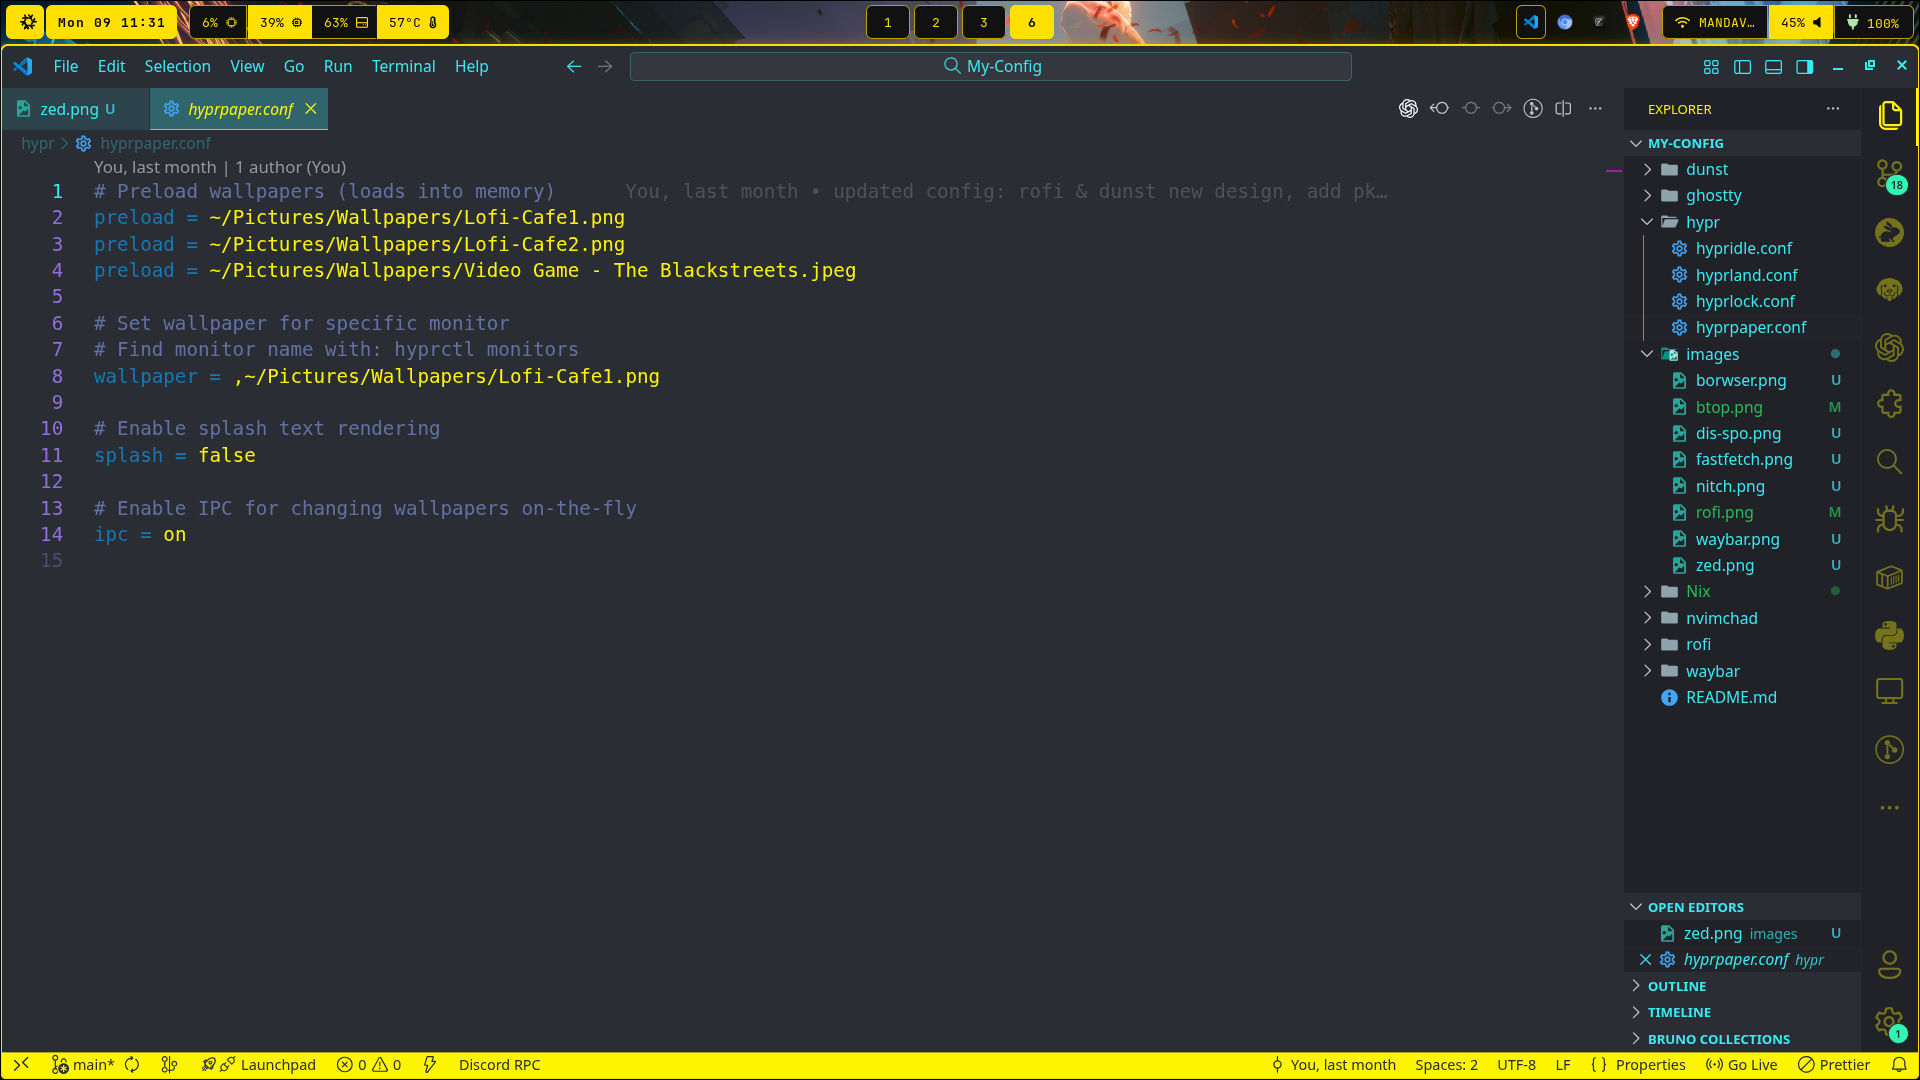
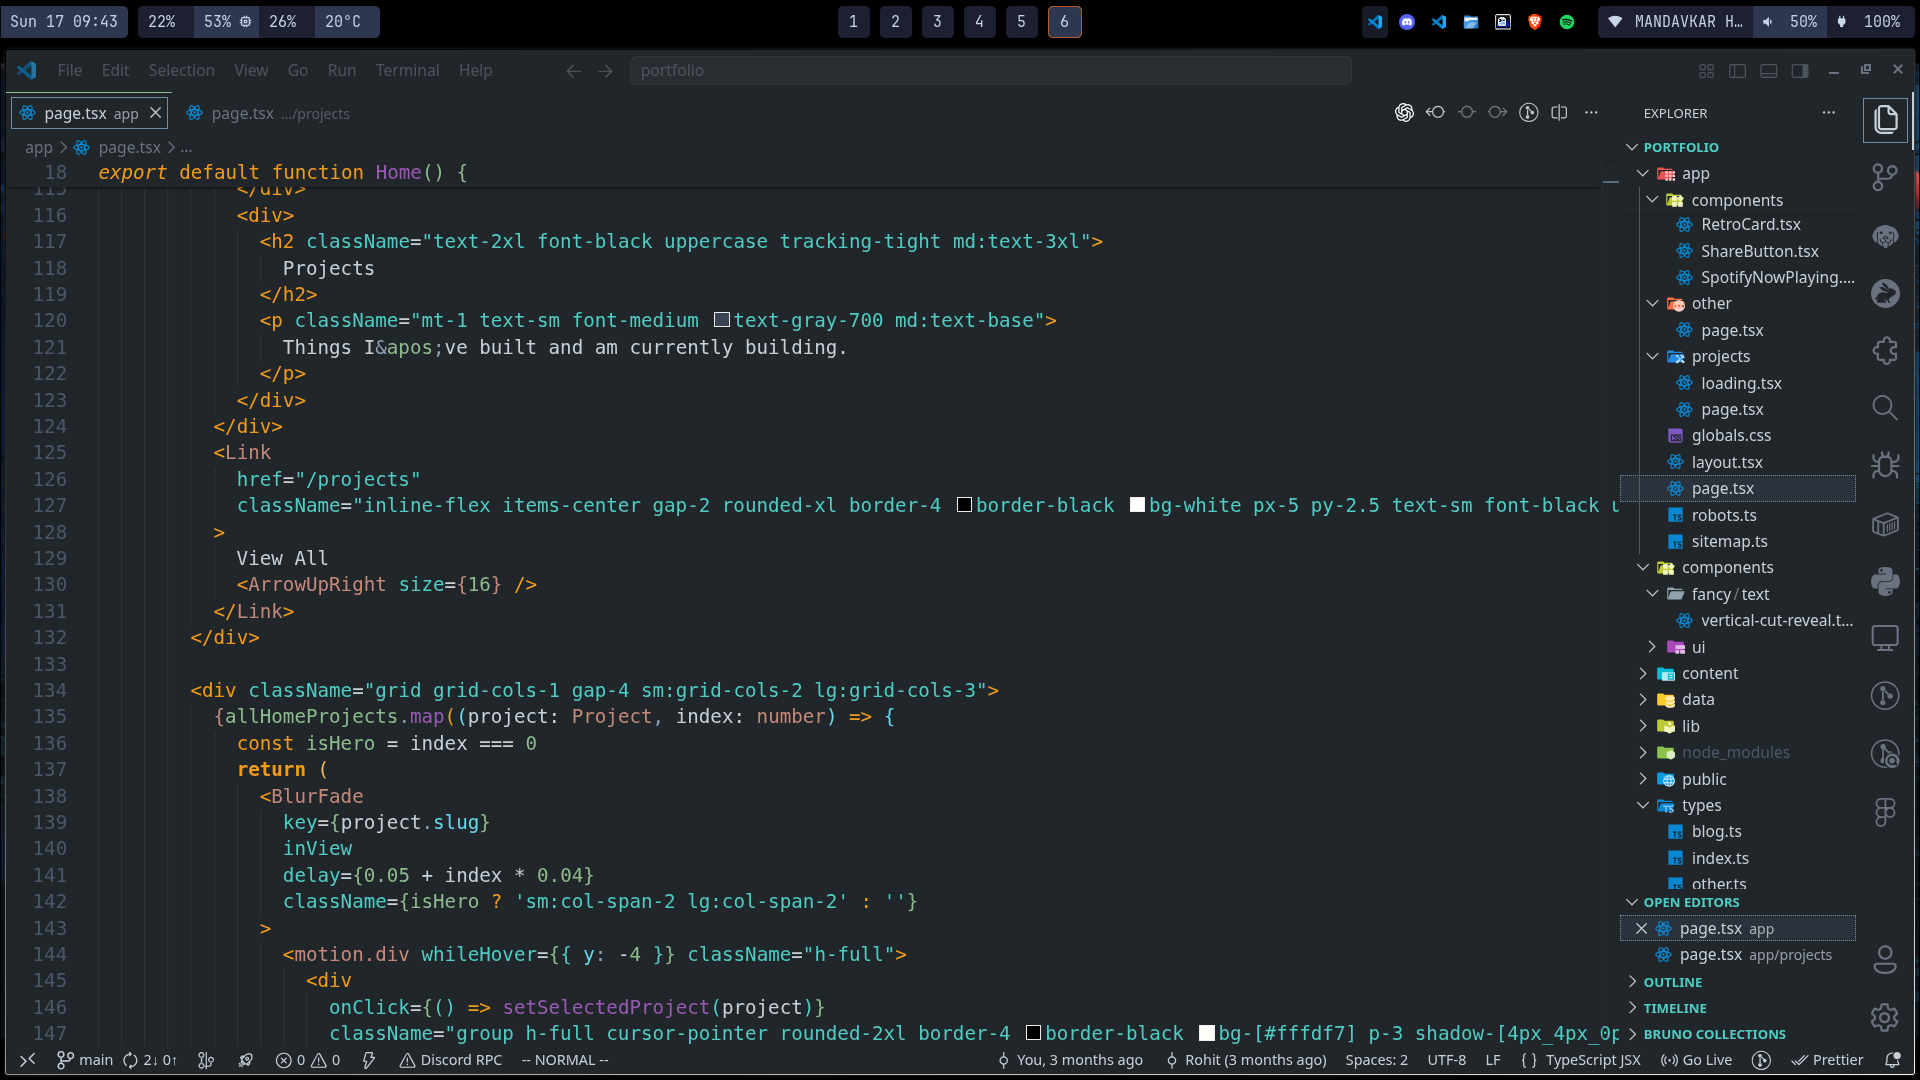
docs: add README screenshots

diff --git a/README.md b/README.md
@@ -1,14 +1,32 @@
 # NixOS Hyprland Configuration
 
-<div align="center">
-  <img src="./images/Nixos-logo.png" alt="NixOS Logo" width="200"/>
-</div>
-
 ## NixOS 26.05 (Yarara)
 
 ## Overview
 
 Custom NixOS configuration with Hyprland window manager, optimized for development productivity.
+
+## Screenshots
+
+| Browser | Discord & Spotify |
+| --- | --- |
+| <img src="./images/browser.png" alt="Browser screenshot" width="420"/> | <img src="./images/discord-spotify.png" alt="Discord and Spotify screenshot" width="420"/> |
+
+| Fastfetch | GThumb & Obsidian |
+| --- | --- |
+| <img src="./images/fastfetch1.png" alt="Fastfetch screenshot" width="420"/> | <img src="./images/gthumb-obsidian.png" alt="GThumb and Obsidian screenshot" width="420"/> |
+
+| App Managers | Neovim |
+| --- | --- |
+| <img src="./images/managers.png" alt="Application managers screenshot" width="420"/> | <img src="./images/nvim.png" alt="Neovim screenshot" width="420"/> |
+
+| PDF Viewer | Rofi |
+| --- | --- |
+| <img src="./images/pdfviewer.png" alt="PDF viewer screenshot" width="420"/> | <img src="./images/rofi.png" alt="Rofi launcher screenshot" width="420"/> |
+
+| VS Code |
+| --- |
+| <img src="./images/vscode.png" alt="VS Code screenshot" width="420"/> |
 
 ## Key Features
 
@@ -107,4 +125,3 @@ Custom NixOS configuration with Hyprland window manager, optimized for developme
 All configurations have been customized for personal use.
 
 ---
-
